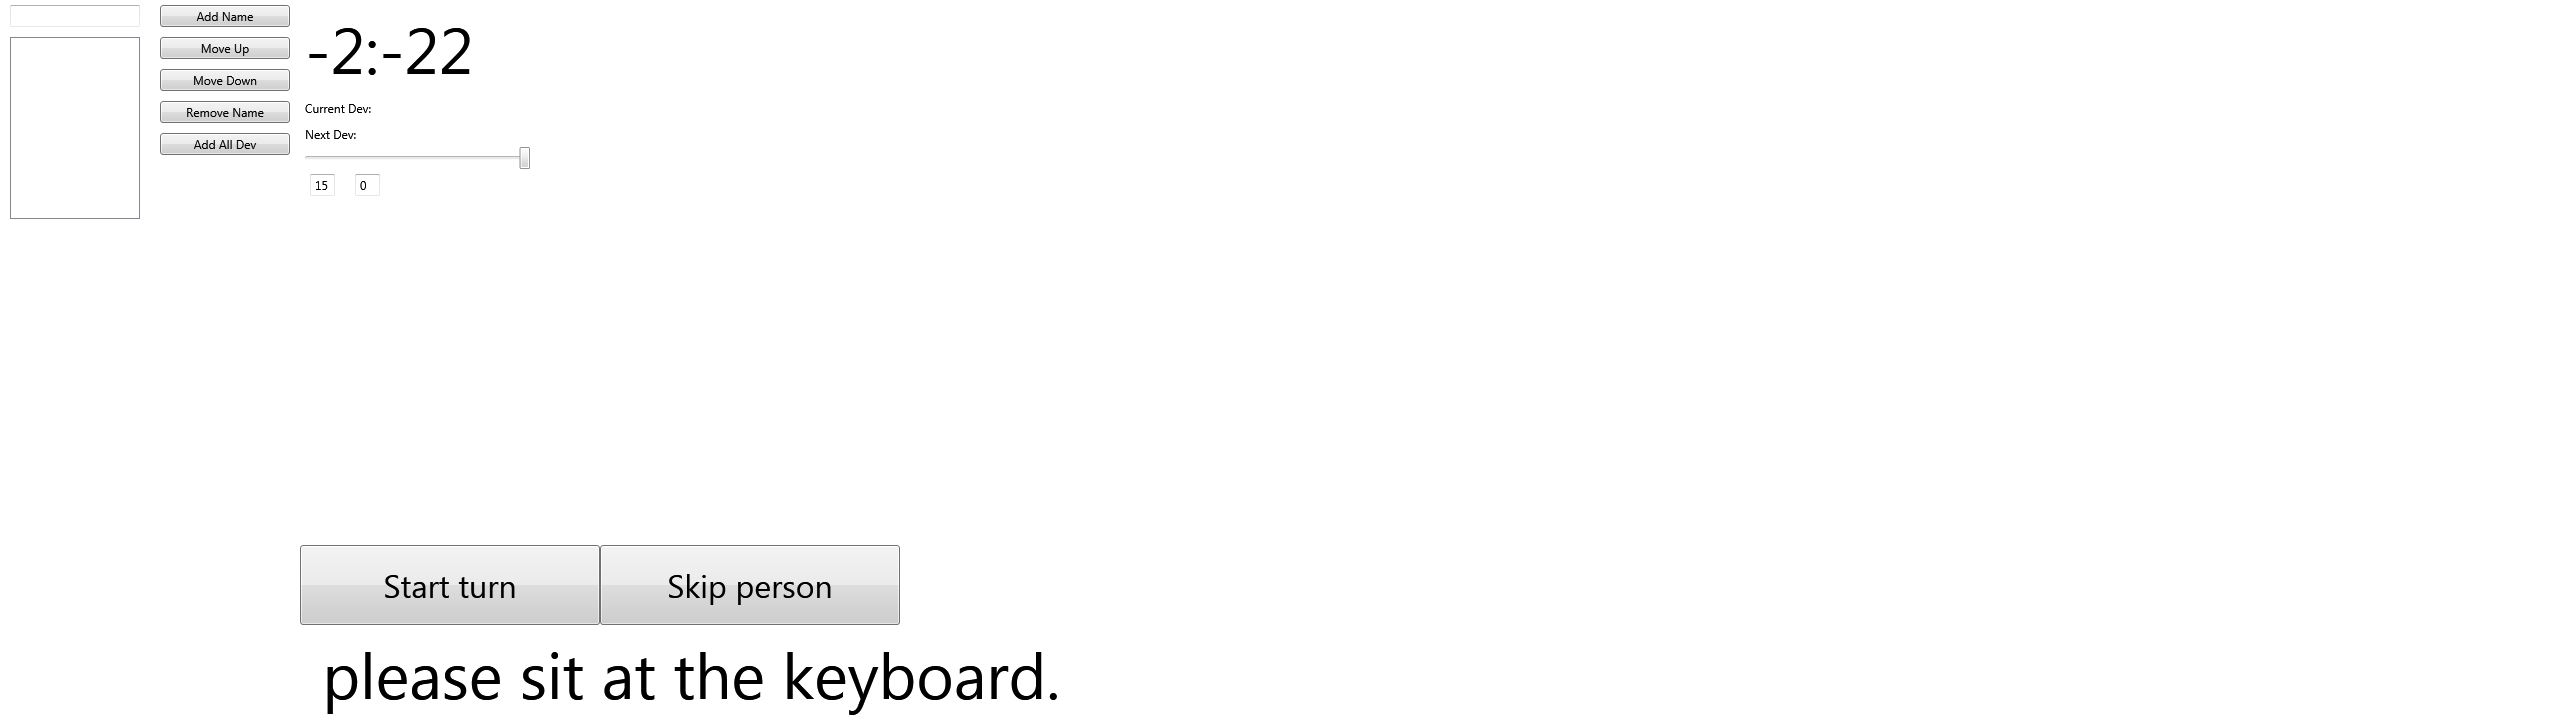
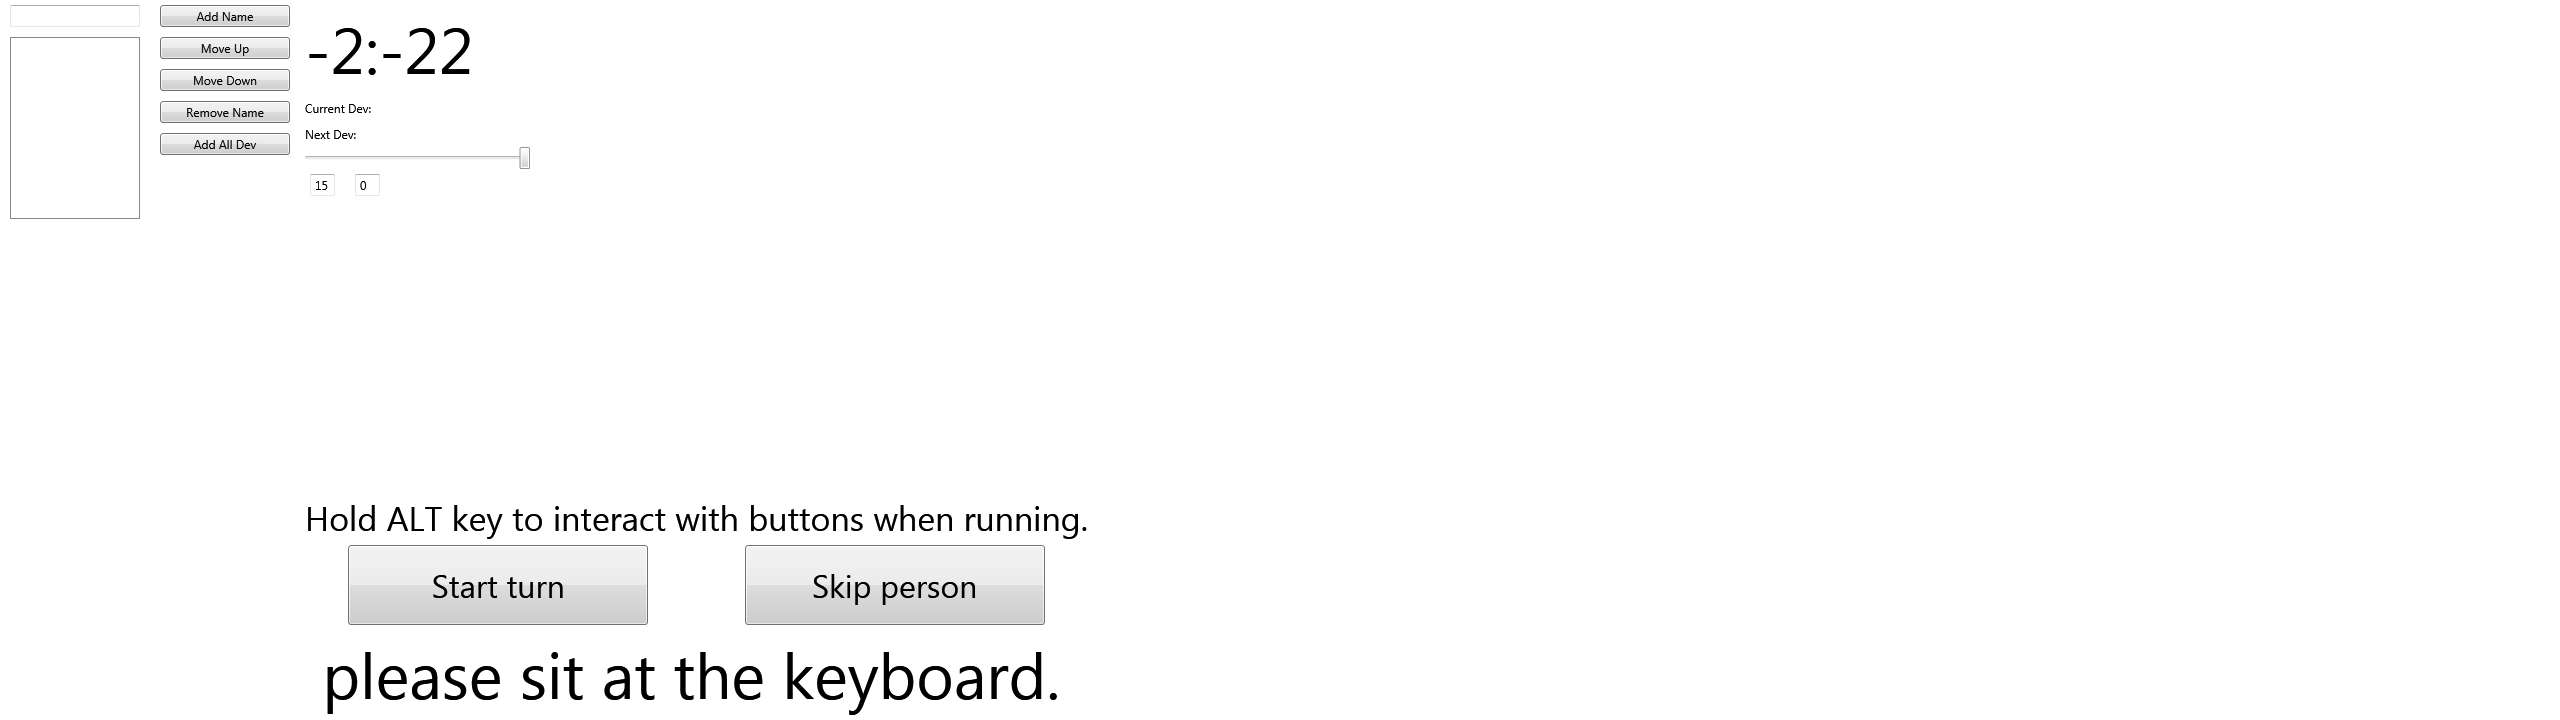
Add helper text to use alt key for interacting with buttons

Changed region(s): [[0.25, 0.7944, 0.4062, 0.8861], [0.125, 0.7028, 0.4375, 0.7639], [0.0938, 0.7944, 0.2188, 0.8861]]

diff --git a/DeveloperTimer/MainWindow.xaml b/DeveloperTimer/MainWindow.xaml
@@ -69,8 +69,11 @@
                         <ColumnDefinition Width="Auto" />
                         <ColumnDefinition Width="Auto" />
                     </Grid.ColumnDefinitions>
-                    <Button Content="Pause" Name="btnPause" Grid.Column="0" Click="btnPause_Click"  />
-                    <Button Content="Skip person" Name="btnRunningSkip" Grid.Column="1" Click="btnSkip_Click"/>
+                    <Grid.RowDefinitions>
+                        <RowDefinition Height="Auto"></RowDefinition>
+                    </Grid.RowDefinitions>
+                    <Button Content="Pause" Name="btnPause" Grid.Column="0" Grid.Row="0" Click="btnPause_Click"  />
+                    <Button Content="Skip person" Name="btnRunningSkip" Grid.Column="1" Grid.Row="0" Click="btnSkip_Click"/>
                 </Grid>
                 
             </StackPanel>
@@ -81,8 +84,13 @@
                 <ColumnDefinition Width="Auto" />
                 <ColumnDefinition Width="Auto" />
             </Grid.ColumnDefinitions>
-            <Button Content="Start turn" Name="btnReset" Grid.Column="0" Click="btnReset_Click" Style="{StaticResource big}"  />
-            <Button Content="Skip person" Name="btnSkip" Grid.Column="1" Click="btnSkip_Click" Style="{StaticResource big}"/>
+            <Grid.RowDefinitions>
+                <RowDefinition Height="Auto"></RowDefinition>
+                <RowDefinition Height="Auto"></RowDefinition>
+            </Grid.RowDefinitions>
+            <Label Grid.Row="0" Grid.ColumnSpan="2" FontSize="34">Hold ALT key to interact with buttons when running.</Label>
+            <Button Content="Start turn" Name="btnReset" Grid.Column="0" Grid.Row="1" Click="btnReset_Click" Style="{StaticResource big}"  />
+            <Button Content="Skip person" Name="btnSkip" Grid.Column="1" Grid.Row="1" Click="btnSkip_Click" Style="{StaticResource big}"/>
         </Grid>
 
         <Label Grid.Row="3" Grid.Column="1" Content="Switch It Up!" FontSize="64" Name="lblNextDeveloper" />
